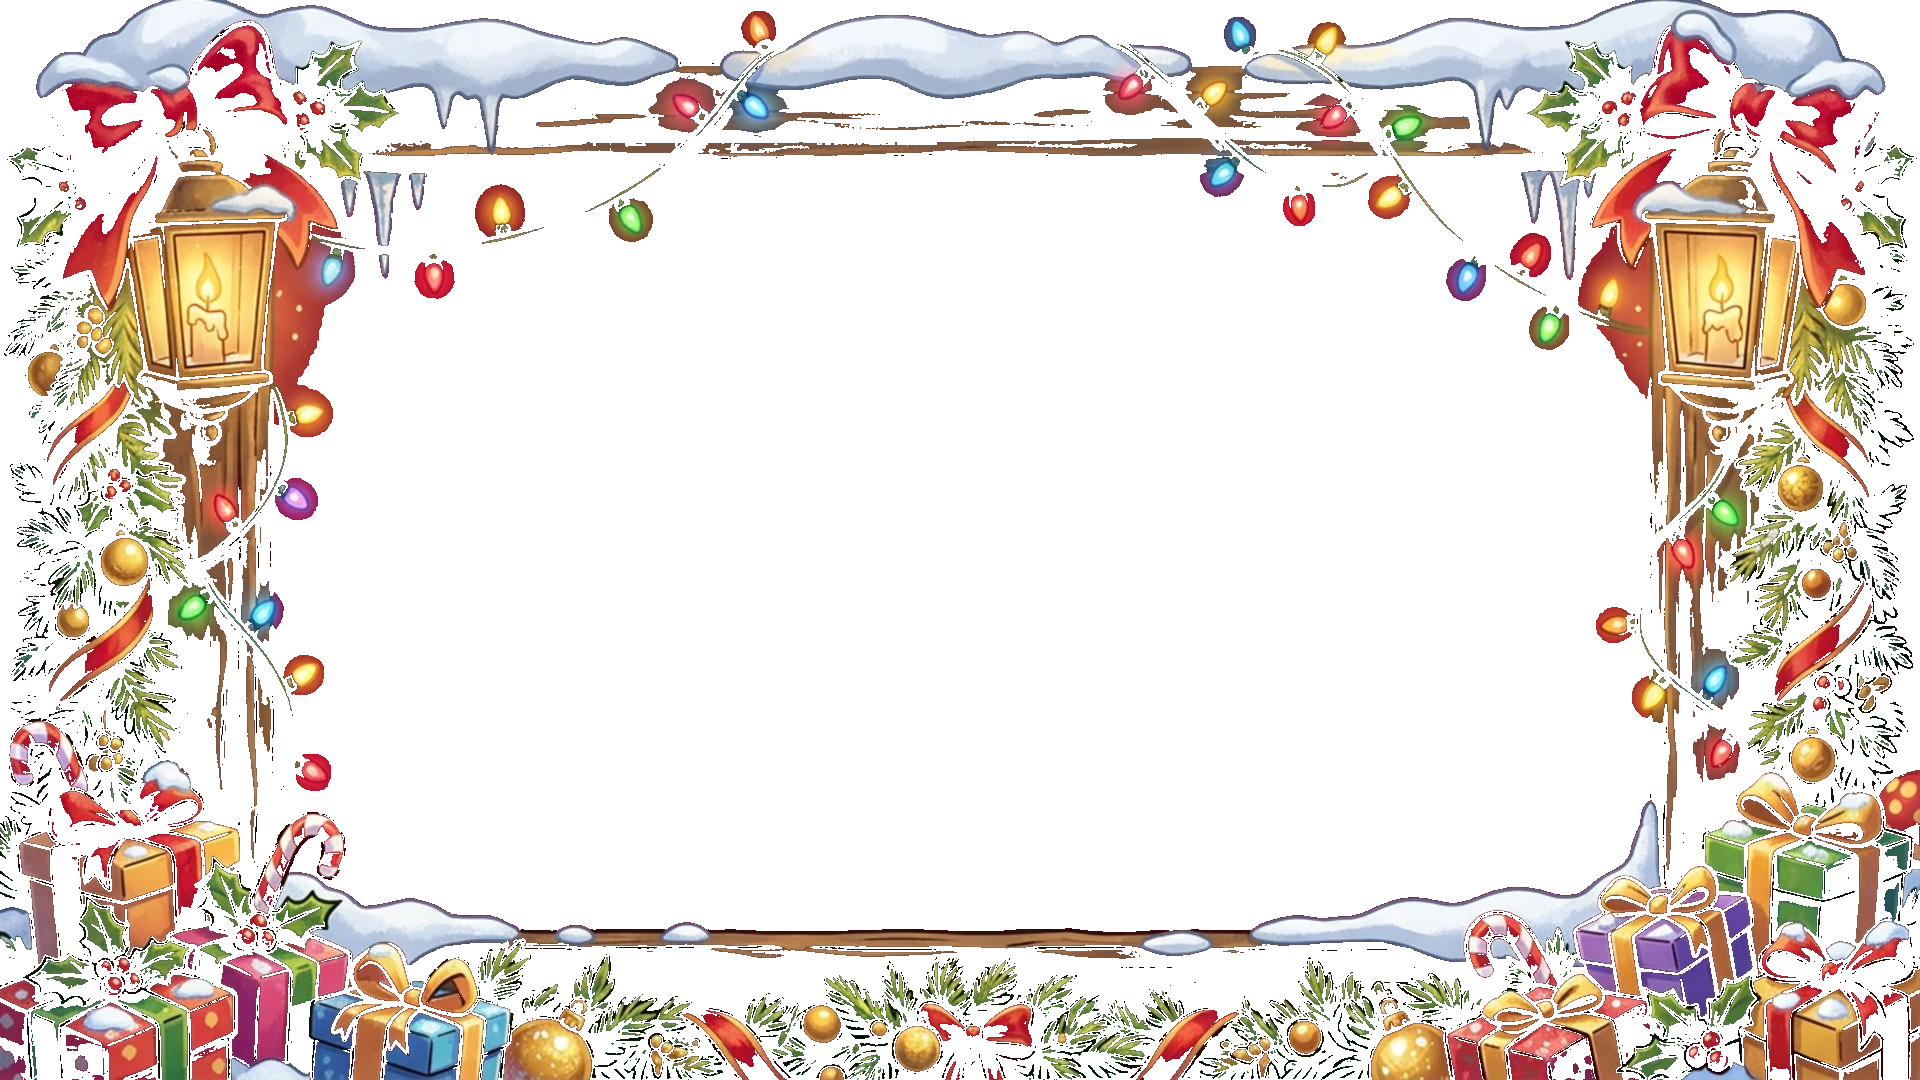
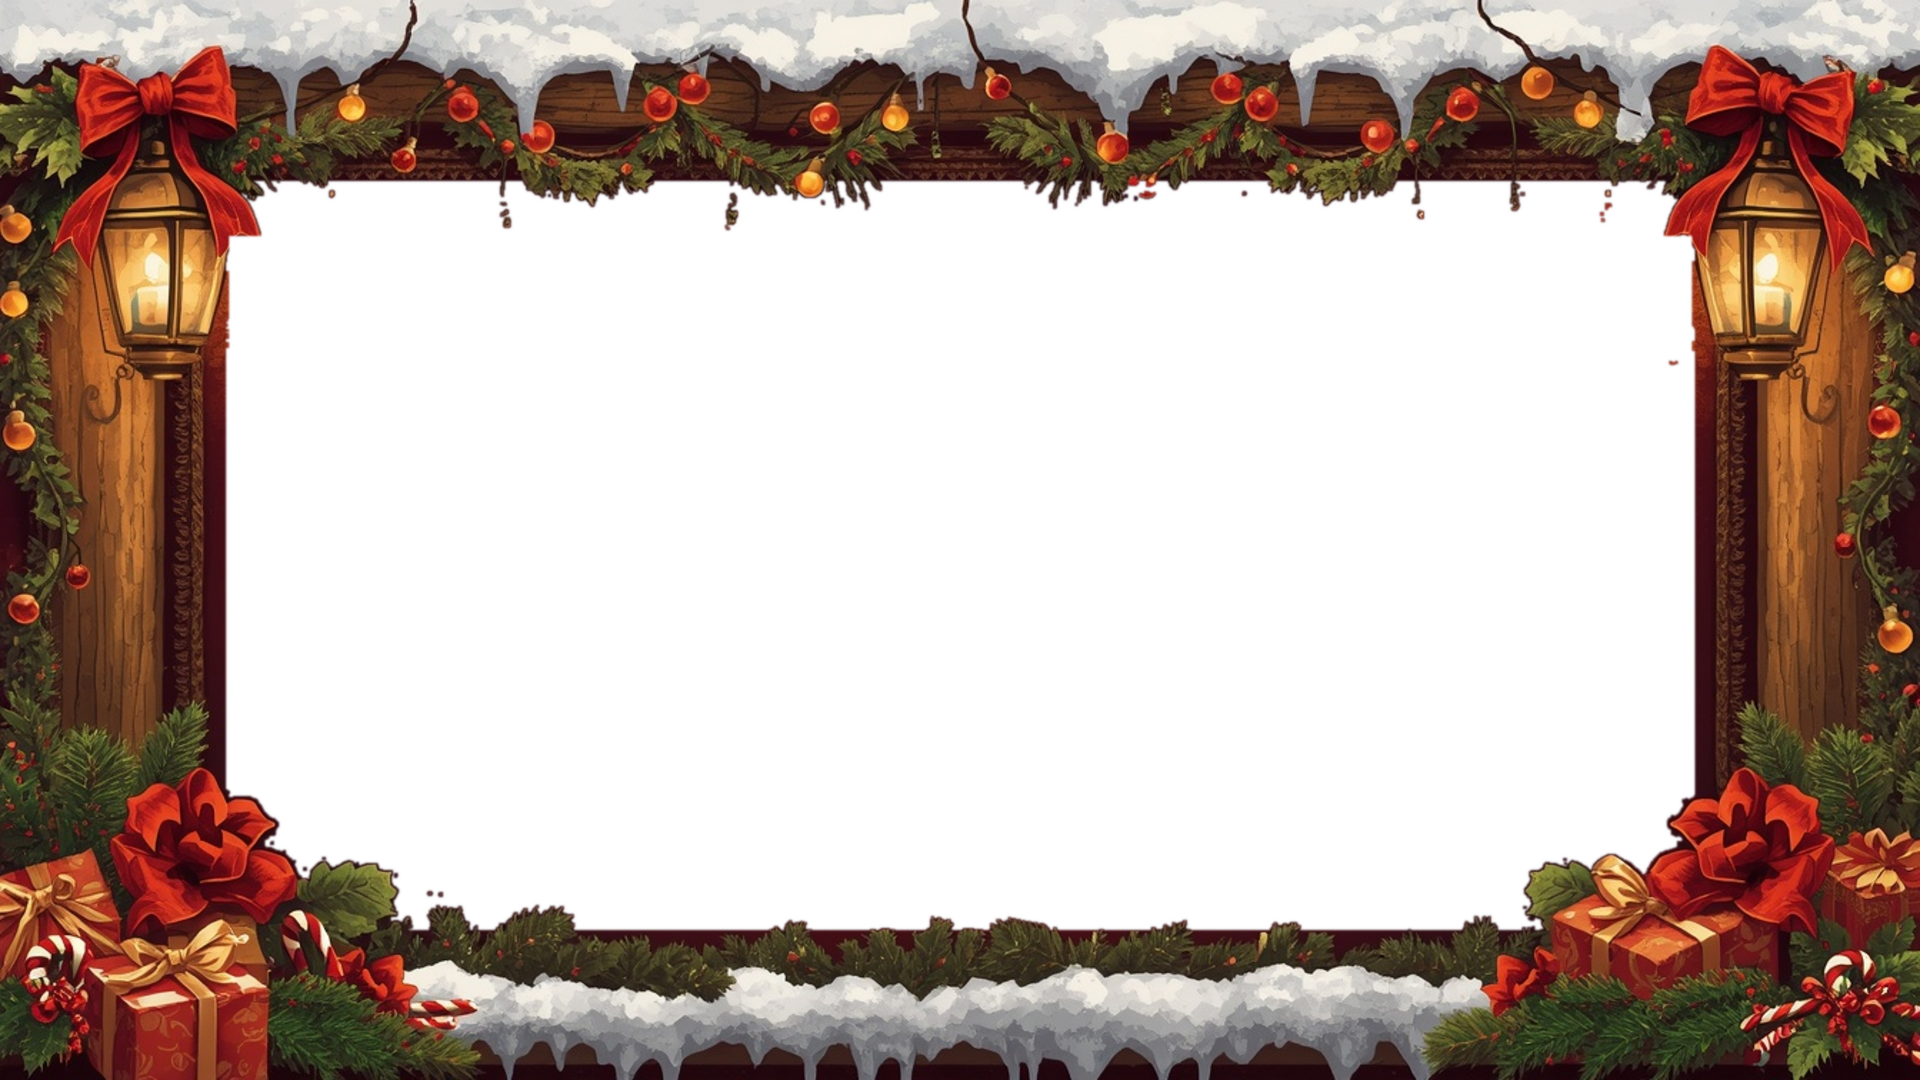
Christmas skin: new painted frame (lanterns, bows, gifts) keyed to transparent; pads retuned
Claude-Session: https://claude.ai/code/session_01Q12DaAgEtrsG43QLYq6ATK

diff --git a/static/skins.js b/static/skins.js
@@ -17,7 +17,7 @@ const Skins = (() => {
       corners: "christmas",
       // painted frame (Midjourney, keyed to transparent). zoom crops the thick posts partly off-screen;
       // pad = how far the live content stays from each screen edge; hpad = extra header side padding (lanterns)
-      art: { src: "/skins/christmas-frame.png", zoom: 1.0, pad: { t: 138, r: 200, b: 160, l: 236 }, hpad: 70 }
+      art: { src: "/skins/christmas-frame.png", zoom: 1.0, pad: { t: 180, r: 228, b: 158, l: 232 }, hpad: 60 }
     },
     thanksgiving: {
       name: "Thanksgiving", effect: "leaves",
